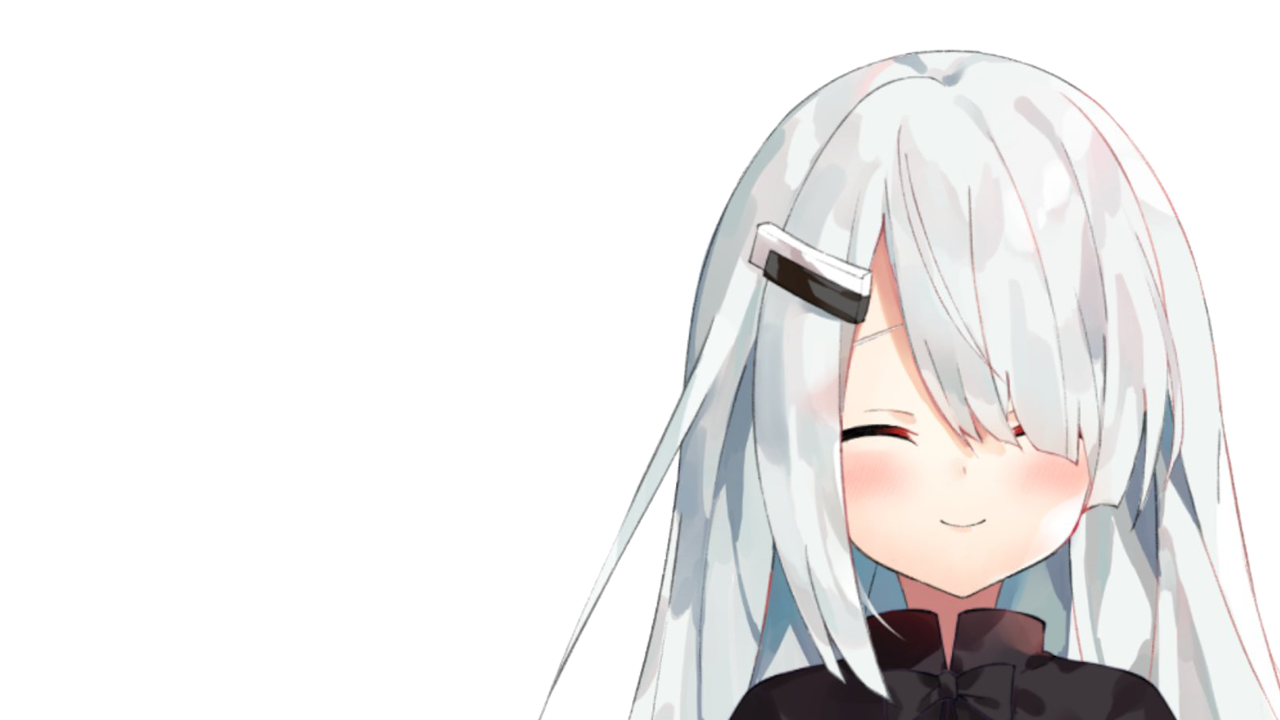
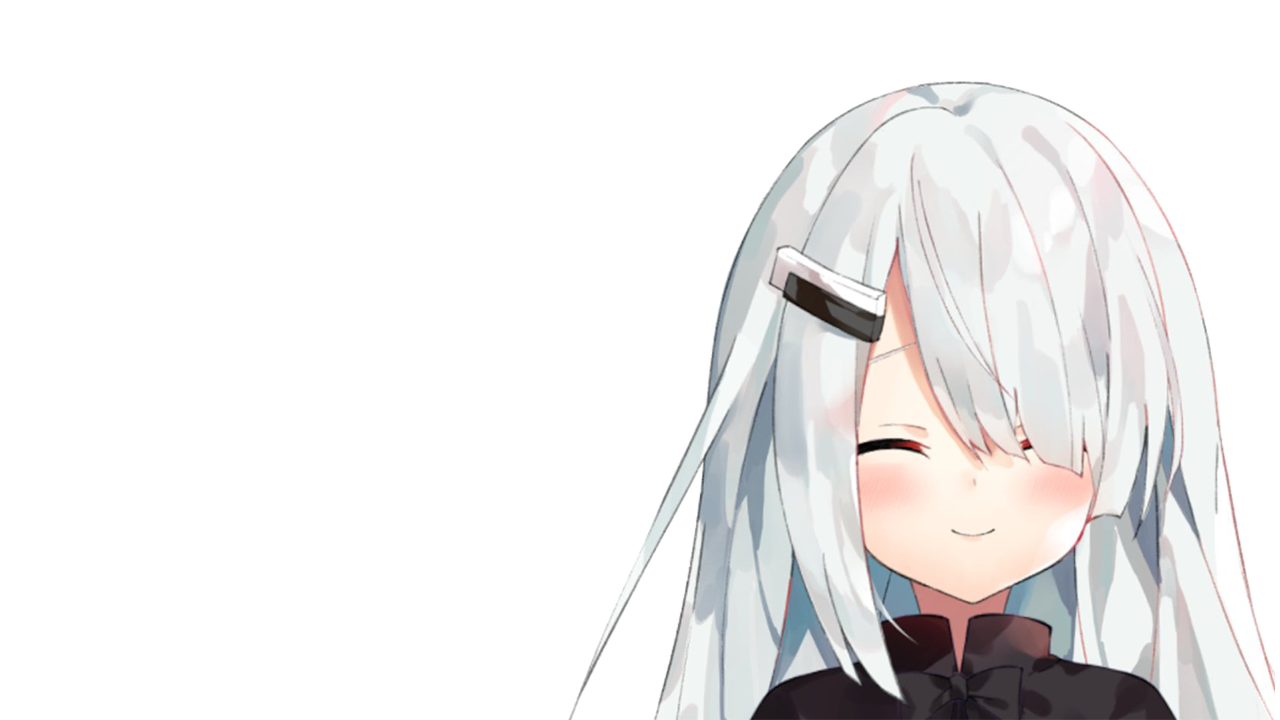
Added states and unique character images for when mic is active, openAI is working, or there was a mistake

Changed region(s): [[0.4375, 0.0611, 1.0, 1.0], [0.75, 0.7333, 0.7812, 0.7639]]

diff --git a/commander_gpt.py b/commander_gpt.py
@@ -77,6 +77,10 @@ class CommanderGPT:
 
         self.image_idle_path = self.character_info.get("image_idle", None)
         self.image_talking_path = self.character_info.get("image_talking", None)
+        self.image_listening_path = self.character_info.get("image_listening", None)
+        self.image_thinking_path = self.character_info.get("image_thinking", None)
+        self.image_error_path = self.character_info.get("image_error", None)
+        
         self.image_azure_voice_style_root_path = self.character_info.get("image_azure_voice_style_root_path", None)
         self.character_pos = (0, SCREEN_HEIGHT)
         self.subtitles = None
@@ -88,6 +92,9 @@ class CommanderGPT:
         if self.image_idle_path and self.image_talking_path:
             self.idle_image = pygame.image.load(f"assets/images/{self.image_idle_path}")
             self.talking_image = pygame.image.load(f"assets/images/{self.image_talking_path}")
+            self.listening_image = pygame.image.load(f"assets/images/{self.image_listening_path}")
+            self.thinking_image = pygame.image.load(f"assets/images/{self.image_thinking_path}")
+            self.error_image = pygame.image.load(f"assets/images/{self.image_error_path}")
             if self.image_azure_voice_style_root_path and self.supported_prefixes:
                 for prefix in self.supported_prefixes:
                     prefix_no_brackets = prefix.replace("(","").replace(")","")
@@ -146,10 +153,12 @@ class CommanderGPT:
             wait_until_key(key_to_match=self.mic_start_key)
 
             print("[yellow]\nListening to mic")
+            self.state = "listening"
             # get mic result
             mic_result = self.speechtotext_manager.speechtotext_from_mic_continuous(stop_key=self.mic_stop_key)
             self.subtitles = mic_result
             print("[green]\nDone listening to mic")
+            self.state = "thinking"
 
             # send question to openai
             monitor_number = -1
@@ -159,6 +168,7 @@ class CommanderGPT:
             
             if openai_result is None:
                 print("[red]\nThe AI had nothing to say or something went wrong.")
+                self.state="error"
                 continue
 
             if self.message_replacements is not None and openai_result is not None:
@@ -226,6 +236,12 @@ if __name__ == '__main__':
             else:
                 commander_gpt.character_pos = (0, 0)
             commander_gpt.update_screen(commander_gpt.idle_image, commander_gpt.character_pos, None)
+        elif commander_gpt.state == "listening":
+            commander_gpt.update_screen(commander_gpt.listening_image, commander_gpt.character_pos, None)
+        elif commander_gpt.state == "thinking":
+            commander_gpt.update_screen(commander_gpt.thinking_image, commander_gpt.character_pos, None)
+        elif commander_gpt.state == "error":
+            commander_gpt.update_screen(commander_gpt.error_image, commander_gpt.character_pos, None)
         else:
             # remove character from screen
             commander_gpt.update_screen(None)
